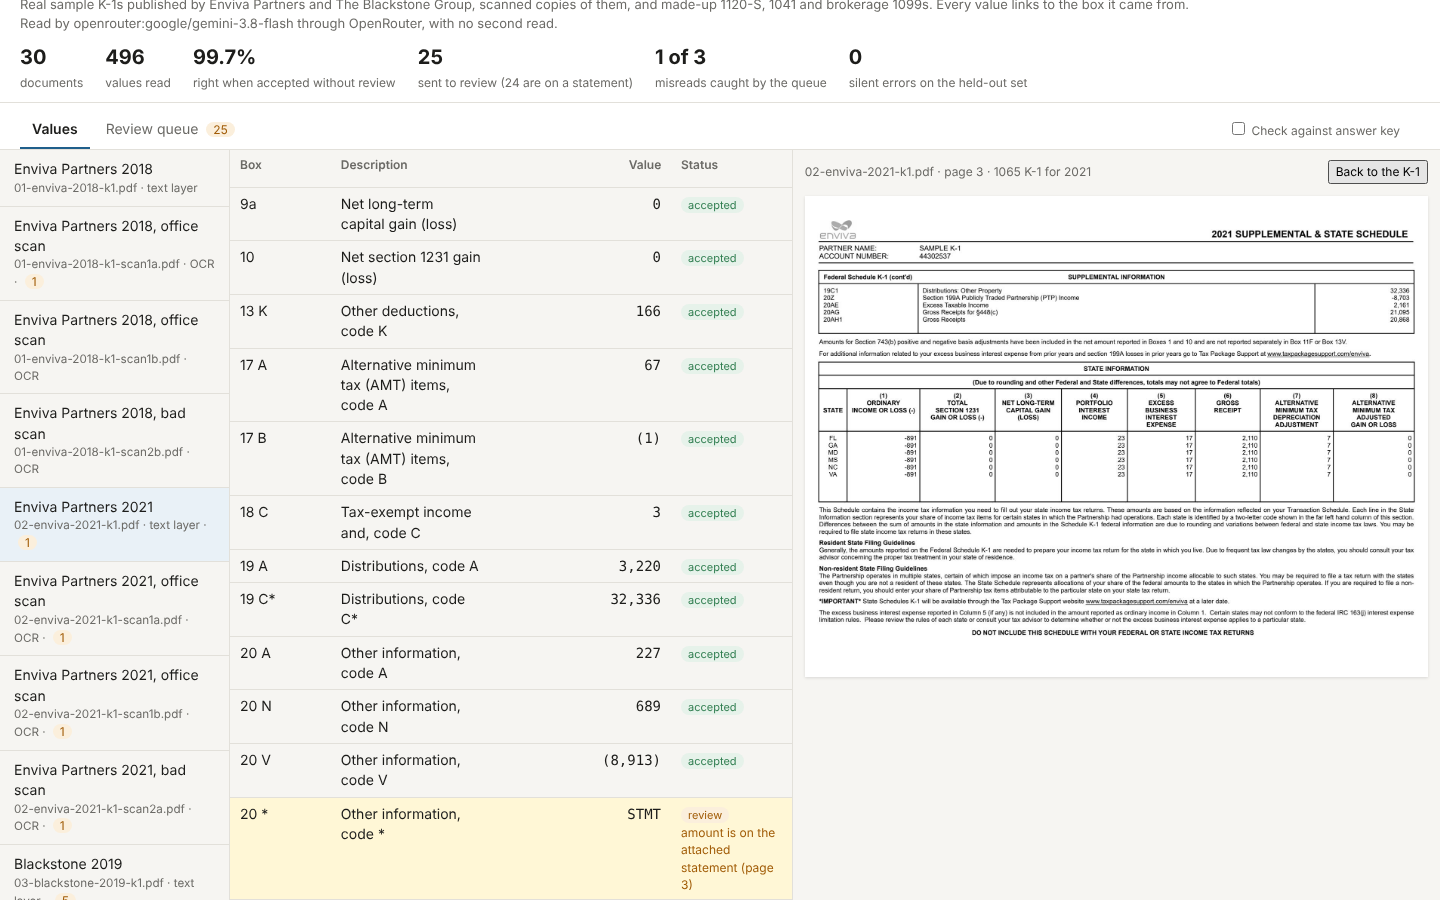
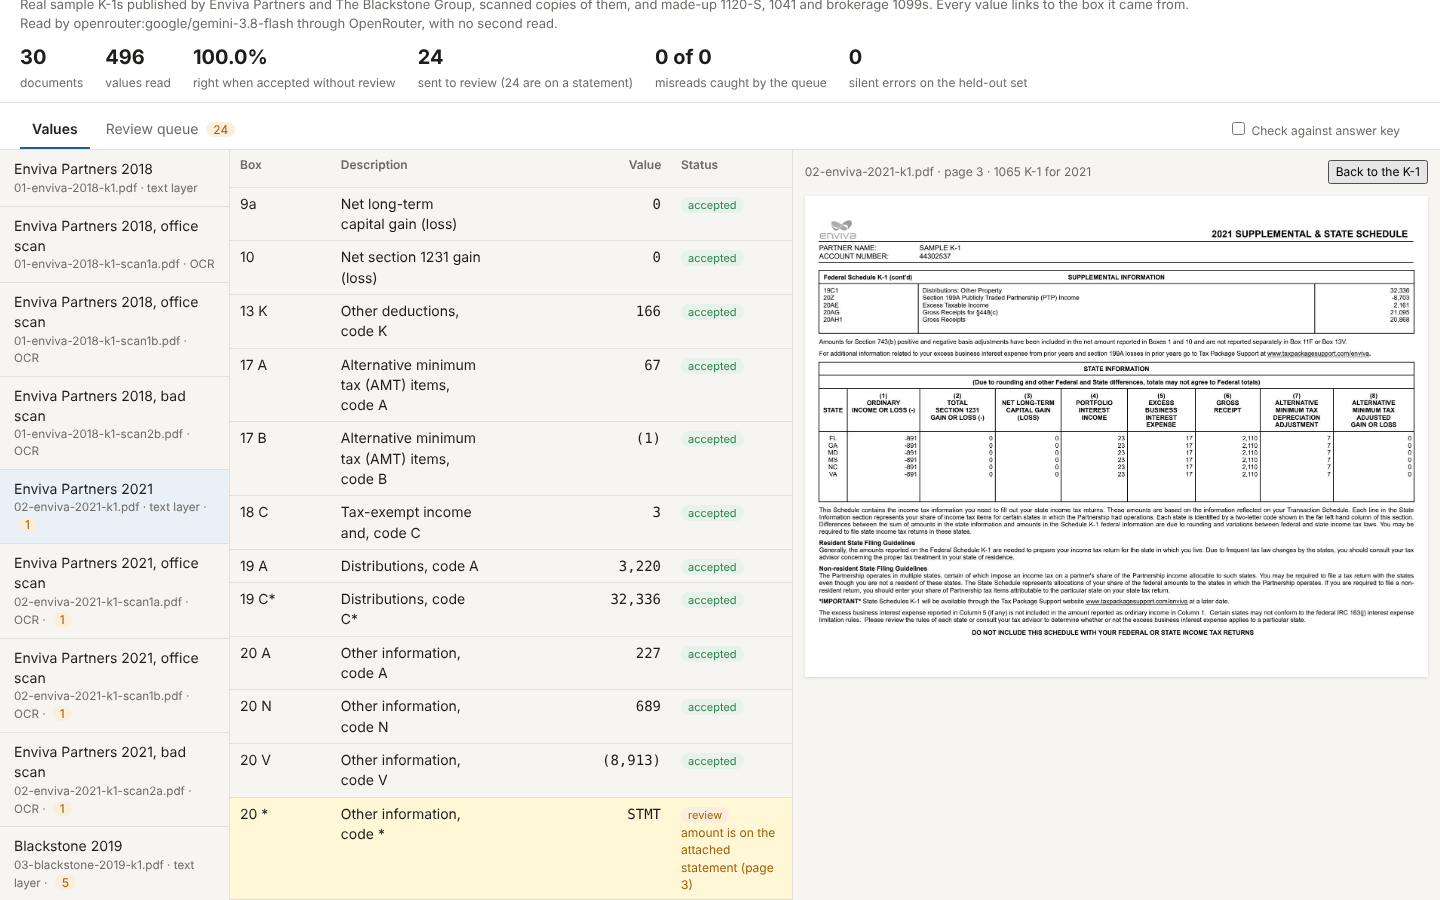
k1-extraction-review-queue: README results and screenshots from a clean run of the notebook on 2026-10-18
Claude-Session: https://claude.ai/code/session_0148K12TtwQMF3nEyET1Nj5H

diff --git a/k1-extraction-review-queue/notebook.py b/k1-extraction-review-queue/notebook.py
@@ -1775,7 +1775,8 @@ def _():
     - **GLM 5.3 Flash** can fail every attempt on the made-up 1099s, with Pydantic AI's `Exceeded maximum output
       retries`: its answer never fits the schema. When it does answer, it often reads only part of the page. The
       three-quarter page check above was added after it read 4 to 8 values on five summary pages and got past the
-      quarter line.
+      quarter line. And when it's asked which form a scan is, it often names the wrong one, mostly "Form 1065" for a
+      made-up 1120-S or 1041. It then reads the page with that form's boxes, and nothing in the review rules notices.
     - **Gemma 4 31B** shifts amounts into neighbouring boxes, misreads names and skips coded rows. It sometimes runs
       out of its 8,000 output tokens. Across runs, between a third and 43% of what it accepted was wrong.
 

diff --git a/k1-extraction-review-queue/README.md b/k1-extraction-review-queue/README.md
@@ -39,3 +39,66 @@ The model answers are saved under `output/answers/`, and re-running reuses them.
 - **Eighteen made-up documents**: 1120-S and 1041 K-1s filled in on the blank IRS forms, and brokerage consolidated 1099s. Every name and amount is invented, and every one is image-only. The generator writes their answer key.
 
 The held-out set is 14 documents whose scans and values come from seeds that weren't used while building the review rules.
+
+## Results
+
+From a clean run of `./run.sh --screenshots` from a fresh clone on 2026-10-18. It took 26 minutes on 4 cores, with uv's package cache already warm. Docling took 8.3 seconds a document, and the whole run cost $1.36. Earlier runs took 36 to 81 minutes and cost $1.20 to $1.45, depending mostly on the CPU and the environment build.
+
+"Boxes" means every box on the answer key plus every value a run reported, so reading something in an empty box counts as an error. "Wrong but accepted" is a wrong value accepted without review, or a box on the key the run never reported, since a missed row reads as a blank box. It is the number that matters for a review queue.
+
+| Pipeline | Values right | Accepted without review | Wrong but accepted | Sent to review (STMT) | Cost per document | Model time per document |
+|---|---|---|---|---|---|---|
+| **Gemini 3.8 Flash** | **676 of 676** | **652** | **0** | **24 (24)** | **$0.0064** | **11.8 s** |
+| Qwen3-VL 235B (open weights) | 667 of 680 | 651 | 6 | 29 (22) | $0.0037 | 31.8 s |
+| Qwen 3.8 27B (open weights) | 636 of 708 | 685 | 64 | 23 (14) | $0.0054 | 61.7 s |
+| GLM 5.3 Flash | 520 of 734 | 611 | 115 | 123 (21) | $0.0013 | 9.3 s |
+| Gemma 4 31B (open weights) | 380 of 740 | 575 | 205 | 165 (2) | $0.0068 | 20.1 s |
+| olmOCR 2 on Modal, then Gemini 3.8 Flash on the text | 550 of 703 | 557 | 73 | 146 (11) | $0.0071 | 12.0 s GPU + 5.6 s |
+| granite-docling on Modal, then Gemini 3.8 Flash on the text | 252 of 678 | 74 | 8 | 604 (24) | $0.0147 | 59.5 s GPU + 1.8 s |
+| **Gemini 3.8 Flash + Qwen 3.8 27B, must agree** | **676 of 708** | **621** | **0** | **87 (24)** | **$0.0118** | **61.7 s** |
+
+Every pipeline finished all 30 documents in this run. On the held-out set, Gemini 3.8 Flash accepted 299 boxes, all right, and sent 11 to review. The pair accepted 289, all right. Gemini read all 62 supplemental statement lines behind the STMT boxes correctly, as in every earlier run. Docling's layout pass adds its own seconds per document on CPU to every vision-model row. `output/comparison.md` breaks every run down by kind of document.
+
+**Gemini alone, or checked by an open model.** Gemini 3.8 Flash's own confidence never flags anything: everything it sends to review is a STMT amount or a malformed one. In four of the eight earlier runs it accepted a misread on a bad scan at confidence 95, a box shift on Enviva 2018 or a wrong code letter on Enviva 2021, each costing 2 boxes. It made no such misread in this run or in either of the other two runs on 2026-10-18. The pair with Qwen 3.8 27B caught every one of those misreads and has let nothing wrong through in any run. It costs 50 to 100% more and sends 25 to 89 more values to review, almost all of them rows Qwen skipped or filed under the wrong box. The pair is the safer default for client documents, and the one to show a CPA firm when the point is that wrong values don't get through.
+
+**Reading the image, or reading text.** olmOCR got nearly all the characters off the page, but once a K-1 is text, the box an amount belongs to is easy to lose. Gemini reading the image was right on 676 of 676 values. Gemini reading olmOCR's text of the same pages was right on 550 of 703.
+
+### How much the results vary between runs
+
+The open models' answers change from run to run at temperature 0, by a lot. Wrong but accepted, run by run. Runs 1 to 8 are from 2026-10-13 to 2026-10-17, from the code before it became this notebook. Run 9 is that code on 2026-10-18 without the OCR models, and runs 10 and 11 are this notebook on 2026-10-18, run 11 being the one above:
+
+| Pipeline | Wrong but accepted, runs 1 to 11 | Cost per document, range |
+|---|---|---|
+| Gemini 3.8 Flash | 0, 0, 0, 0, 2, 2, 2, 2, 0, 0, 0 | $0.0064 to $0.0066 |
+| Qwen3-VL 235B | 29, 6, 13, 22, 3, 6, 4, 16, 7, 6, 6 | $0.0037 to $0.0040 |
+| Qwen 3.8 27B | 25, 57, 91, 32, 61, 56, 31, 38, 54, 58, 64 | $0.0034 to $0.0063 |
+| GLM 5.3 Flash | 14, 4, 88\*, 4, 13, 13†, 70\*, 2†, 67‡, 70‡, 115‡ | $0.0009 to $0.0020 |
+| Gemma 4 31B | 211, 278, 222, 239, 235, 220, 241, 232, 229, 197, 205 | $0.0015 to $0.0076 |
+| olmOCR 2 + Gemini | –, 69, 84, 87, 76, 86, 70, 70, –, 68, 73 | $0.0071 to $0.0074 |
+| granite-docling + Gemini | –, 26, 14, 12, 20, 2, 19, 8, –, 7, 8 | $0.0124 to $0.0219 |
+| Gemini + Qwen 3.8 27B pair | 0, 0, 0, 0, 0, 0, 0, 0, 0, 0, 0 | $0.0099 to $0.0127 |
+
+\* Near-empty answers on the brokerage 1099s, before the three-quarter page check (see the notebook, section 4). In runs 9 to 11 that check sent all six of GLM's 4-value 1099 answers to review.
+† GLM failed every retry on 5 (run 6) and 4 (run 8) of the 6 brokerage 1099s; those runs score the other documents.
+‡ Mostly the wrong form. When Docling can't tell which form a scan is, the model is asked. In each of runs 9 to 11, GLM named the same 7 made-up 1120-S and 1041 scans as the wrong form, almost always "Form 1065", and read them with that form's boxes. That gave 66, 66 and 70 wrong accepted values. In run 11 it also named the Blackstone office scan "Form 1041", which added 44. The other vision models named every form right.
+
+Run 1 to 3 costs leave out failed retries; later runs count every attempt. Gemma 4 31B runs out of its 8,000 output tokens on some documents every run (5 times in run 11) and finishes after retries.
+
+## What it doesn't show
+
+- **This is not our production extraction.** A prospect who sends real documents will see different numbers.
+- **The scans are simulated**, and the sample is small: three real K-1s, all Form 1065, and no real 1120-S, 1041 or brokerage 1099s. Gemini's perfect runs don't mean a perfect score in general.
+- **Eleven runs don't pin down any model's error rate**, the open models' least of all.
+- **Some errors get through any page-level check**: a 1099 answer that skips only the DIV or only the INT section, values put in the wrong box, or a whole page read as the wrong form.
+- **A failed document isn't in the review queue.** In production it would go to a person whole.
+
+The notebook's last section covers what didn't work, including the first Tesseract pipelines.
+
+## Files
+
+- `notebook.py`: the whole demo, as a marimo notebook
+- `ocr_modal.py`: the Modal app for the OCR models (a module, because Modal imports it inside its containers)
+- `review_screen.html`: the review screen's page, which the notebook fills with each run's results
+- `real_answer_key.json`: the real K-1s' Part III boxes and the partnership's name and EIN, keyed by hand from the issuers' PDFs
+- `screenshots/`: Gemini 3.8 Flash's review screen from the run above
+- `run.sh`, `pyproject.toml`, `uv.lock`: the one command and its pinned environment
